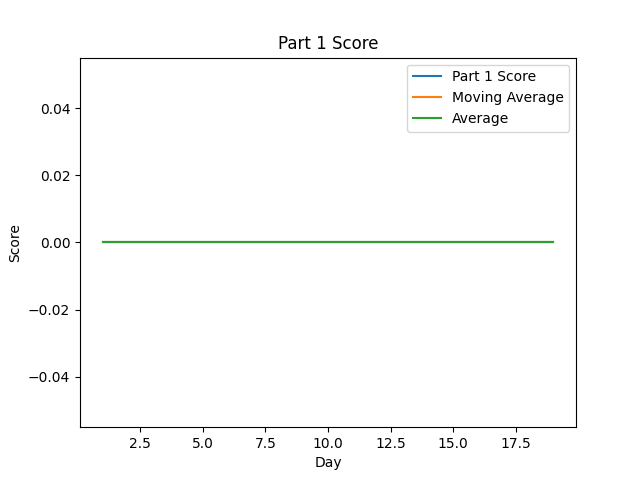
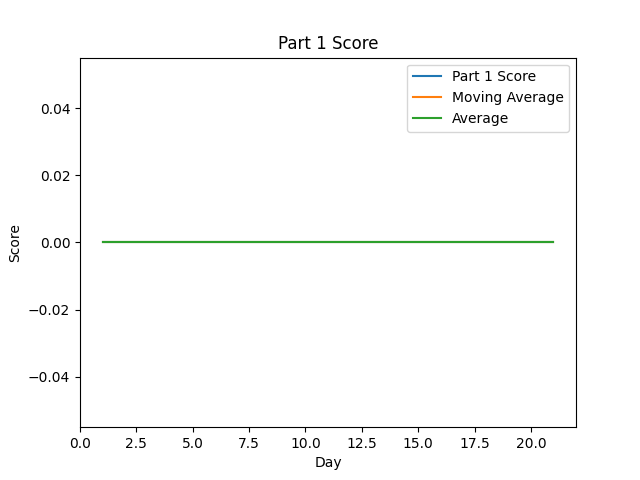
Day 21 ✅

diff --git a/src/day21/solution.ts b/src/day21/solution.ts
@@ -1,0 +1,99 @@
+import { inputAsStringArray } from '../utils/InputProcessor';
+
+const breakdown = /([\w\s]+) \(contains ([\w,\s]+)\)/;
+type PossibleAllergens = Record<string, string[]>;
+const mapIngredientsToPossibleAllergens = (
+  input: string[]
+): { possible: PossibleAllergens; ingredients: Record<string, number> } => {
+  const mapping: PossibleAllergens = {};
+  const ingList: Record<string, number> = {};
+  input.forEach((line) => {
+    const [test, ingredients, allergens] = breakdown.exec(line) ?? [
+      'fail',
+      '',
+      '',
+    ];
+    if (test !== 'fail') {
+      const ingredientList = ingredients.split(' ');
+      ingredientList.forEach((ing) => {
+        const ingredientCount = ingList[ing];
+        if (ingredientCount) ingList[ing]++;
+        else ingList[ing] = 1;
+      });
+      allergens.split(', ').forEach((allergen) => {
+        if (!mapping[allergen]) mapping[allergen] = ingredientList;
+        else
+          mapping[allergen] = mapping[allergen].filter((ing) =>
+            ingredientList.includes(ing)
+          );
+        mapping[allergen];
+      });
+    }
+  });
+  return { possible: mapping, ingredients: ingList };
+};
+
+const findSafeIngredients = (
+  mapping: PossibleAllergens,
+  ingList: string[]
+): string[] => {
+  let safeList = [...ingList];
+  Object.values(mapping).forEach((ingredients) => {
+    safeList = safeList.filter((ing) => !ingredients.includes(ing));
+  });
+  return safeList;
+};
+
+const determineAllergens = (
+  mapping: PossibleAllergens
+): Record<string, string> => {
+  console.log(mapping);
+  const pairings: Record<string, string> = {};
+  const allergens = [...Object.keys(mapping)];
+  let remainingAllergens = [...allergens];
+  while (remainingAllergens.length > 0) {
+    allergens.forEach((allergen) => {
+      if (mapping[allergen].length === 1 && !pairings[allergen]) {
+        console.log('reducing', allergen);
+        console.log('paired with', mapping[allergen][0]);
+        const matchingIngredient = mapping[allergen][0];
+        pairings[allergen] = matchingIngredient;
+        remainingAllergens.forEach((remainingAllergen) => {
+          mapping[remainingAllergen] = mapping[remainingAllergen].filter(
+            (ingredient) => ingredient !== matchingIngredient
+          );
+        });
+        remainingAllergens = remainingAllergens.filter(
+          (all) => all !== allergen
+        );
+        console.log('pairings', pairings);
+      }
+    });
+  }
+  console.log(pairings);
+  return pairings;
+};
+
+export const part1 = (input: string[]): number => {
+  const { possible, ingredients } = mapIngredientsToPossibleAllergens(input);
+  const safes = findSafeIngredients(possible, Object.keys(ingredients));
+  return safes.reduce((acc, safe) => acc + ingredients[safe], 0);
+};
+
+export const part2 = (input: string[]): string => {
+  const { possible } = mapIngredientsToPossibleAllergens(input);
+  const pairings = determineAllergens(possible);
+  return Object.entries(pairings)
+    .sort(([a], [b]) => a.localeCompare(b))
+    .map(([, val]) => val)
+    .join(',');
+};
+
+if (require.main === module) {
+  (() => {
+    const input = inputAsStringArray('src/day21/input.txt');
+    console.log(
+      `Day 21:\n  Part 1:  ${part1(input)}\n  Part 2:  ${part2(input)}`
+    );
+  })();
+}

diff --git a/src/day21/__tests__/dayTest.ts b/src/day21/__tests__/dayTest.ts
@@ -1,0 +1,28 @@
+import { part1, part2 } from '../solution';
+import { inputAsStringArray } from '../../utils/InputProcessor';
+
+const input = inputAsStringArray('src/day21/input.txt');
+
+const inputExample = [
+  'mxmxvkd kfcds sqjhc nhms (contains dairy, fish)',
+  'trh fvjkl sbzzf mxmxvkd (contains dairy)',
+  'sqjhc fvjkl (contains soy)',
+  'sqjhc mxmxvkd sbzzf (contains fish)',
+];
+
+describe('day 21', () => {
+  it('should solve part 1 with example input', () => {
+    expect(part1(inputExample)).toBe(5);
+  });
+  it('should solve part 1 with my assigned input', () => {
+    expect(part1(input)).toBe(1913);
+  });
+  it('should solve part 2 with example input', () => {
+    expect(part2(inputExample)).toBe('mxmxvkd,sqjhc,fvjkl');
+  });
+  it('should solve part 2 with my assigned input', () => {
+    expect(part2(input)).toBe(
+      'gpgrb,tjlz,gtjmd,spbxz,pfdkkzp,xcfpc,txzv,znqbr'
+    );
+  });
+});

diff --git a/src/day21/README.md b/src/day21/README.md
@@ -1,0 +1,41 @@
+\--- Day 21: Allergen Assessment ---
+------------------------------------
+
+You reach the train's last stop and the closest you can get to your vacation island without getting wet. There aren't even any boats here, but nothing can stop you now: you build a raft. You just need a few days' worth of food for your journey.
+
+You don't speak the local language, so you can't read any ingredients lists. However, sometimes, allergens are listed in a language you _do_ understand. You should be able to use this information to determine which ingredient contains which allergen and work out which foods are safe to take with you on your trip.
+
+You start by compiling a list of foods (your puzzle input), one food per line. Each line includes that food's _ingredients list_ followed by some or all of the allergens the food contains.
+
+Each allergen is found in exactly one ingredient. Each ingredient contains zero or one allergen. _Allergens aren't always marked_; when they're listed (as in `(contains nuts, shellfish)` after an ingredients list), the ingredient that contains each listed allergen will be _somewhere in the corresponding ingredients list_. However, even if an allergen isn't listed, the ingredient that contains that allergen could still be present: maybe they forgot to label it, or maybe it was labeled in a language you don't know.
+
+For example, consider the following list of foods:
+
+    mxmxvkd kfcds sqjhc nhms (contains dairy, fish)
+    trh fvjkl sbzzf mxmxvkd (contains dairy)
+    sqjhc fvjkl (contains soy)
+    sqjhc mxmxvkd sbzzf (contains fish)
+    
+
+The first food in the list has four ingredients (written in a language you don't understand): `mxmxvkd`, `kfcds`, `sqjhc`, and `nhms`. While the food might contain other allergens, a few allergens the food definitely contains are listed afterward: `dairy` and `fish`.
+
+The first step is to determine which ingredients _can't possibly_ contain any of the allergens in any food in your list. In the above example, none of the ingredients `kfcds`, `nhms`, `sbzzf`, or `trh` can contain an allergen. Counting the number of times any of these ingredients appear in any ingredients list produces _`5`_: they all appear once each except `sbzzf`, which appears twice.
+
+Determine which ingredients cannot possibly contain any of the allergens in your list. _How many times do any of those ingredients appear?_
+
+
+
+\--- Part Two ---
+-----------------
+
+Now that you've isolated the inert ingredients, you should have enough information to figure out which ingredient contains which allergen.
+
+In the above example:
+
+*   `mxmxvkd` contains `dairy`.
+*   `sqjhc` contains `fish`.
+*   `fvjkl` contains `soy`.
+
+Arrange the ingredients _alphabetically by their allergen_ and separate them by commas to produce your _canonical dangerous ingredient list_. (There should _not be any spaces_ in your canonical dangerous ingredient list.) In the above example, this would be _`mxmxvkd,sqjhc,fvjkl`_.
+
+Time to stock your raft with supplies. _What is your canonical dangerous ingredient list?_

diff --git a/README.md b/README.md
@@ -2,7 +2,9 @@
 [Advent of Code](https://adventofcode.com) Solutions for 2020 in TypeScript.
 This year, I have self-imposed a rule that I will be unit testing every day's submission, and, unless I am completely
 unable to do so, have every solution able to solve both parts in under a second on my 2017 MacBook Pro (15") (I failed
-at this requirement on Day 17...).
+at this requirement on Day 17...). 
+
+I took a day off on day 20, but I went back and did it by hand the next day for a logic puzzle.
 
 ![HBiede](https://circleci.com/gh/hbiede/AoC-2020.svg?style=svg)
 
@@ -44,7 +46,9 @@ at this requirement on Day 17...).
 |  17 | 00:39:17 ( 1636) (  0)     | 01:02:40 ( 2238) (  0)     |
 |  18 | 00:48:43 ( 2650) (  0)     | 01:12:31 ( 2315) (  0)     |
 |  19 | 00:54:13 ( 1579) (  0)     | 01:27:10 ( 1170) (  0)     |
-| Avg | 00:26:43 ( 3019) (  0)     | 01:00:50 ( 3309) (  0)     |
+|  20 | 13:35:48 ( 9433) (  0)     | 13:35:59 ( 4008) (  0)     |
+|  21 | 00:47:49 ( 1942) (  0)     | 01:09:28 ( 2166) (  0)     |
+| Avg | 01:05:18 ( 3273) (  0)     | 01:37:12 ( 3288) (  0)     |
 
 
 <!--suppress CheckImageSize -->

diff --git a/README_template.md b/README_template.md
@@ -2,7 +2,9 @@
 [Advent of Code](https://adventofcode.com) Solutions for 2020 in TypeScript.
 This year, I have self-imposed a rule that I will be unit testing every day's submission, and, unless I am completely
 unable to do so, have every solution able to solve both parts in under a second on my 2017 MacBook Pro (15") (I failed
-at this requirement on Day 17...).
+at this requirement on Day 17...). 
+
+I took a day off on day 20, but I went back and did it by hand the next day for a logic puzzle.
 
 ![HBiede](https://circleci.com/gh/hbiede/AoC-2020.svg?style=svg)
 
